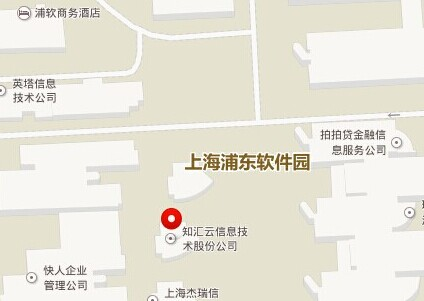
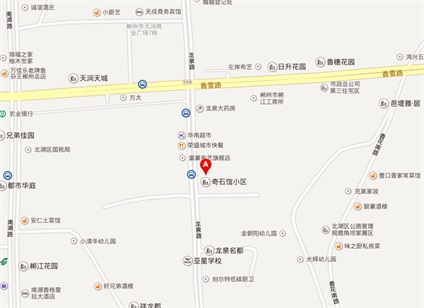
update the information of this website.satisfy to chenzhou company

diff --git a/tpl/Home/tpl04/Index_solution.html b/tpl/Home/tpl04/Index_solution.html
@@ -1,1 +1,1 @@
-<!DOCTYPE html><!--[if lt IE 7]>      <html class="no-js lt-ie9 lt-ie8 lt-ie7"> <![endif]--><!--[if IE 7]>         <html class="no-js lt-ie9 lt-ie8"> <![endif]--><!--[if IE 8]>         <html class="no-js lt-ie9"> <![endif]--><!--[if IE 9]>         <html class="no-js lt-ie10"> <![endif]--><!--[if IE 10]>         <html class="no-js ie10"> <![endif]--><head>    <meta charset="utf-8">  <meta http-equiv="X-UA-Compatible" content="IE=edge,chrome=1">        <title>经典案例_解决方案_微最强TMVlianyun_微信营销推广行业领导品牌</title>  <meta name="keywords"  content="微信营销解决方案、微信推广解决方案、微信营销行业方案"/>  <meta name="description"  content="微最强TM（Vlianyun），是微信营销行业领导品牌，立足客户个性化需求，为品牌企业占领微信营销高地，专注于提供微信营销、微信推广、微信运营等解决方案，助力企业微营销。"/>    <meta name="viewport" content="width=device-width, initial-scale=1">    <link rel="stylesheet" href="{noercms::RES}/css/normalize.css">    <link rel="stylesheet" href="{noercms::RES}/css/main.css">    <link rel="stylesheet" href="{noercms::RES}/css/anythingslider.css">    <script src="{noercms::RES}/js/com-9ac93d2c51d68fe2ff212cbd6355f2f6.js" type="text/javascript"></script>    <script src="{noercms::RES}/js/modernizr-2.6.2.min.js"></script></head><body data-spy="scroll" data-target="#page-index"  id="index-0">    <!--[if lt IE 7]>        <p class="browsehappy">You are using an <strong>outdated</strong> browser. Please <a href="http://browsehappy.com/">upgrade your browser</a> to improve your experience.</p>    <![endif]--><div class="html">    <div class="header">	<div class="wrap">		<div class="logo">			<a href="/"></a>		</div>		<div class="header-nav">			<ul>				<li>					<a href="/">首页</a>				</li>				<li>					<a href="{noercms::U('Home/Index/solution')}" class="active">经典案例</a>				</li>				<li>					<a href="{noercms::U('Home/Index/navigation')}" class="">功能导航</a>				</li>				<li>					<a href="{noercms::U('Home/Index/spread')}" class="">渠道代理</a>				</li>								<li>					<a href="{noercms::U('Home/Index/about')}" class="">关于我们</a>				</li>			</ul>		</div>		<div class="header-btns">		<if condition="$_SESSION[uid]==false">		<a href="{noercms::U('Home/Index/login')}" class="btn btn-text">登录</a>		<a href="{noercms::U('Home/Index/reg')}" class="btn btn-green">注册试用</a>		<else/>		<a href="{noercms::U('User/Index/index')}" class="btn btn-green">{noercms:$Think.session.uname}</a>		<a href="/#" class="btn btn-green" onClick="Javascript:window.open('{noercms::U('System/Admin/logout')}','_blank')" >退出</a>		</if>		</div>	</div></div>    <div class="body">  <div class="clearfix article">    <div class="article-top">      <div class="wrap">        <div class="edit-box">          <h4>订座、点餐节约时间，有效提高客流量</h4>          <small>              菜单管理                <span>|</span>              餐桌管理                <span>|</span>              订座管理                <span>|</span>              门店管理                <span>|</span>              微餐饮                <span>|</span>              预约管理           </small>          <p class="text-center">            <a class="btn btn-green btn-big" href="{noercms::U('Home/Index/reg')}">免费体验</a>          </p>        </div>      </div>    </div>    <div class="clearfix bg-gray bg-shadow">      <div class="wrap">        <ul class="clearfix list-case">          <li>            <a>              <span><img src="{noercms::RES}/images/E5B7B4E9A1BFE781ABE994851.jpg"></span>              <small>巴顿火锅</small>              <div class="case-hover" panel_id=0>                <b>扫一扫</b>                <span>									<img src="{noercms::RES}/images/E5B7B4E9A1BFE781ABE99485.jpg" alt="" width="106px" height="106px">                </span>                <i class="case-btn">更多详情</i>              </div>            </a>          </li>          <li>            <a>              <span><img src="{noercms::RES}/images/E4BA91E69993E783A7E783A4.jpg"></span>              <small>云晓烧烤</small>              <div class="case-hover" panel_id=1>                <b>扫一扫</b>                <span>									<img src="{noercms::RES}/images/E4BA91E69993E783A7E783A42.jpg" alt="" width="106px" height="106px">                </span>                <i class="case-btn">更多详情</i>              </div>            </a>          </li>          <li>            <a>              <span><img src="{noercms::RES}/images/E4BB8AE992B0E782B9E5BF831.jpg"></span>              <small>今钰点心</small>              <div class="case-hover" panel_id=2>                <b>扫一扫</b>                <span>									<img src="{noercms::RES}/images/E4BB8AE992B0E782B9E5BF83.jpg" alt="" width="106px" height="106px">                </span>                <i class="case-btn">更多详情</i>              </div>            </a>          </li>          <li>            <a>              <span><img src="{noercms::RES}/images/E5A4A7E89AA8E88081E6B1A4E781ABE99485E99DA2E9A6862.jpg"></span>              <small>大蚨老汤火锅</small>              <div class="case-hover" panel_id=3>                <b>扫一扫</b>                <span>									<img src="{noercms::RES}/images/E5A4A7E89AA8E88081E6B1A4E781ABE99485E99DA2E9A686.jpg" alt="" width="106px" height="106px">                </span>                <i class="case-btn">更多详情</i>              </div>            </a>          </li>          <li>            <a>              <span><img src="{noercms::RES}/images/E6B38AE7BFA0E9A490E9A5AE1.jpg"></span>              <small>泊翠餐饮</small>              <div class="case-hover" panel_id=4>                <b>扫一扫</b>                <span>									<img src="{noercms::RES}/images/E6B38AE7BFA0E9A490E9A5AE.jpg" alt="" width="106px" height="106px">                </span>                <i class="case-btn">更多详情</i>              </div>            </a>          </li>          <li>            <a>              <span><img src="{noercms::RES}/images/E78E89E886B3E688BFE6B8AFE7B2A4E7BE8EE9A39F3.jpg"></span>              <small>玉膳房港粤美食</small>              <div class="case-hover" panel_id=5>                <b>扫一扫</b>                <span>									<img src="{noercms::RES}/images/E78E89E886B3E688BFE6B8AFE7B2A4E7BE8EE9A39F.jpg" alt="" width="106px" height="106px">                </span>                <i class="case-btn">更多详情</i>              </div>            </a>          </li>        </ul>      </div>    </div>  </div>        </script><!--[if !IE]>底部<![endif]--><include file="Public:footer"/><!--[if !IE]>底部<![endif]-->  </div>  </div>    <div class="modal fade" id="modalCase">    <div class="modal-dialog">      <div class="modal-content">        <div class="modal-body">          <a class="modal-close"></a>          <ul id="slider-case" class="slider">            <li>              <h4>巴顿火锅</h4>                <p></p>                  <div class="slider-case-box">                    <div class="slider-case-td">                      <img src="{noercms::RES}/images/E5B7B4E9A1BFE781ABE994851.jpg">                      .                            </div>                    <div class="slider-case-td">                      <img src="{noercms::RES}/images/E5B7B4E9A1BFE781ABE994852.jpg">                      .                            </div>                    <div class="slider-case-td">                      <img src="{noercms::RES}/images/E5B7B4E9A1BFE781ABE99485.jpg" width="180">                      <span>扫描二维码即可查看详情</span>                      .                            </div>                  </div>                </li>            <li>              <h4>云晓烧烤</h4>                <p></p>                  <div class="slider-case-box">                    <div class="slider-case-td">                      <img src="{noercms::RES}/images/E4BA91E69993E783A7E783A4.jpg">                      .                            </div>                    <div class="slider-case-td">                      <img src="{noercms::RES}/images/E4BA91E69993E783A7E783A41.jpg">                      .                            </div>                    <div class="slider-case-td">                      <img src="{noercms::RES}/images/E4BA91E69993E783A7E783A42.jpg" width="180">                      <span>扫描二维码即可查看详情</span>                      .                            </div>                  </div>                </li>            <li>              <h4>今钰点心</h4>                <p></p>                  <div class="slider-case-box">                    <div class="slider-case-td">                      <img src="{noercms::RES}/images/E4BB8AE992B0E782B9E5BF831.jpg">                      .                            </div>                    <div class="slider-case-td">                      <img src="{noercms::RES}/images/E4BB8AE992B0E782B9E5BF832.jpg">                      .                            </div>                    <div class="slider-case-td">                      <img src="{noercms::RES}/images/E4BB8AE992B0E782B9E5BF83.jpg" width="180">                      <span>扫描二维码即可查看详情</span>                      .                            </div>                  </div>                </li>            <li>              <h4>大蚨老汤火锅</h4>                <p></p>                  <div class="slider-case-box">                    <div class="slider-case-td">                      <img src="{noercms::RES}/images/E5A4A7E89AA8E88081E6B1A4E781ABE99485E99DA2E9A6862.jpg">                      .                            </div>                    <div class="slider-case-td">                      <img src="{noercms::RES}/images/E5A4A7E89AA8E88081E6B1A4E781ABE99485E99DA2E9A6863.jpg">                      .                            </div>                    <div class="slider-case-td">                      <img src="{noercms::RES}/images/E5A4A7E89AA8E88081E6B1A4E781ABE99485E99DA2E9A686.jpg" width="180">                      <span>扫描二维码即可查看详情</span>                      .                            </div>                  </div>                </li>            <li>              <h4>泊翠餐饮</h4>                <p></p>                  <div class="slider-case-box">                    <div class="slider-case-td">                      <img src="{noercms::RES}/images/E6B38AE7BFA0E9A490E9A5AE1.jpg">                      .                            </div>                    <div class="slider-case-td">                      <img src="{noercms::RES}/images/E6B38AE7BFA0E9A490E9A5AE2.jpg">                      .                            </div>                    <div class="slider-case-td">                      <img src="{noercms::RES}/images/E6B38AE7BFA0E9A490E9A5AE.jpg" width="180">                      <span>扫描二维码即可查看详情</span>                      .                            </div>                  </div>                </li>            <li>              <h4>玉膳房港粤美食</h4>                <p></p>                  <div class="slider-case-box">                    <div class="slider-case-td">                      <img src="{noercms::RES}/images/E78E89E886B3E688BFE6B8AFE7B2A4E7BE8EE9A39F3.jpg">                      .                            </div>                    <div class="slider-case-td">                      <img src="{noercms::RES}/images/E78E89E886B3E688BFE6B8AFE7B2A4E7BE8EE9A39F2.jpg">                      .                            </div>                    <div class="slider-case-td">                      <img src="{noercms::RES}/images/E78E89E886B3E688BFE6B8AFE7B2A4E7BE8EE9A39F.jpg" width="180">                      <span>扫描二维码即可查看详情</span>                      .                            </div>                  </div>                </li>          </ul>        </div>      </div>    </div>  </div></body></html>
+<!DOCTYPE html><!--[if lt IE 7]>      <html class="no-js lt-ie9 lt-ie8 lt-ie7"> <![endif]--><!--[if IE 7]>         <html class="no-js lt-ie9 lt-ie8"> <![endif]--><!--[if IE 8]>         <html class="no-js lt-ie9"> <![endif]--><!--[if IE 9]>         <html class="no-js lt-ie10"> <![endif]--><!--[if IE 10]>         <html class="no-js ie10"> <![endif]--><head>    <meta charset="utf-8">  <meta http-equiv="X-UA-Compatible" content="IE=edge,chrome=1">        <title>经典案例_解决方案_微最强TMVlianyun_微信营销推广行业领导品牌</title>  <meta name="keywords"  content="微信营销解决方案、微信推广解决方案、微信营销行业方案"/>  <meta name="description"  content="微最强TM（Vlianyun），是微信营销行业领导品牌，立足客户个性化需求，为品牌企业占领微信营销高地，专注于提供微信营销、微信推广、微信运营等解决方案，助力企业微营销。"/>    <meta name="viewport" content="width=device-width, initial-scale=1">    <link rel="stylesheet" href="{noercms::RES}/css/normalize.css">    <link rel="stylesheet" href="{noercms::RES}/css/main.css">    <link rel="stylesheet" href="{noercms::RES}/css/anythingslider.css">    <script src="{noercms::RES}/js/com-9ac93d2c51d68fe2ff212cbd6355f2f6.js" type="text/javascript"></script>    <script src="{noercms::RES}/js/modernizr-2.6.2.min.js"></script></head><body data-spy="scroll" data-target="#page-index"  id="index-0">    <!--[if lt IE 7]>        <p class="browsehappy">You are using an <strong>outdated</strong> browser. Please <a href="http://browsehappy.com/">upgrade your browser</a> to improve your experience.</p>    <![endif]--><div class="html">    <div class="header">	<div class="wrap">		<div class="logo">			<a href="/"></a>		</div>		<div class="header-nav">			<ul>				<li>					<a href="/">首页</a>				</li>				<li>					<a href="{noercms::U('Home/Index/solution')}" class="active">经典案例</a>				</li>				<li>					<a href="{noercms::U('Home/Index/navigation')}" class="">功能导航</a>				</li>								<li>					<a href="{noercms::U('Home/Index/about')}" class="">关于我们</a>				</li>			</ul>		</div>		<div class="header-btns">		<if condition="$_SESSION[uid]==false">		<a href="{noercms::U('Home/Index/login')}" class="btn btn-text">登录</a>		<a href="{noercms::U('Home/Index/reg')}" class="btn btn-green">注册试用</a>		<else/>		<a href="{noercms::U('User/Index/index')}" class="btn btn-green">{noercms:$Think.session.uname}</a>		<a href="/#" class="btn btn-green" onClick="Javascript:window.open('{noercms::U('System/Admin/logout')}','_blank')" >退出</a>		</if>		</div>	</div></div>    <div class="body">  <div class="clearfix article">    <div class="article-top">      <div class="wrap">        <div class="edit-box">          <h4>订座、点餐节约时间，有效提高客流量</h4>          <small>              菜单管理                <span>|</span>              餐桌管理                <span>|</span>              订座管理                <span>|</span>              门店管理                <span>|</span>              微餐饮                <span>|</span>              预约管理           </small>          <p class="text-center">            <a class="btn btn-green btn-big" href="{noercms::U('Home/Index/reg')}">免费体验</a>          </p>        </div>      </div>    </div>    <div class="clearfix bg-gray bg-shadow">      <div class="wrap">        <ul class="clearfix list-case">          <li>            <a>              <span><img src="{noercms::RES}/images/E5B7B4E9A1BFE781ABE994851.jpg"></span>              <small>巴顿火锅</small>              <div class="case-hover" panel_id=0>                <b>扫一扫</b>                <span>									<img src="{noercms::RES}/images/E5B7B4E9A1BFE781ABE99485.jpg" alt="" width="106px" height="106px">                </span>                <i class="case-btn">更多详情</i>              </div>            </a>          </li>          <li>            <a>              <span><img src="{noercms::RES}/images/E4BA91E69993E783A7E783A4.jpg"></span>              <small>云晓烧烤</small>              <div class="case-hover" panel_id=1>                <b>扫一扫</b>                <span>									<img src="{noercms::RES}/images/E4BA91E69993E783A7E783A42.jpg" alt="" width="106px" height="106px">                </span>                <i class="case-btn">更多详情</i>              </div>            </a>          </li>          <li>            <a>              <span><img src="{noercms::RES}/images/E4BB8AE992B0E782B9E5BF831.jpg"></span>              <small>今钰点心</small>              <div class="case-hover" panel_id=2>                <b>扫一扫</b>                <span>									<img src="{noercms::RES}/images/E4BB8AE992B0E782B9E5BF83.jpg" alt="" width="106px" height="106px">                </span>                <i class="case-btn">更多详情</i>              </div>            </a>          </li>          <li>            <a>              <span><img src="{noercms::RES}/images/E5A4A7E89AA8E88081E6B1A4E781ABE99485E99DA2E9A6862.jpg"></span>              <small>大蚨老汤火锅</small>              <div class="case-hover" panel_id=3>                <b>扫一扫</b>                <span>									<img src="{noercms::RES}/images/E5A4A7E89AA8E88081E6B1A4E781ABE99485E99DA2E9A686.jpg" alt="" width="106px" height="106px">                </span>                <i class="case-btn">更多详情</i>              </div>            </a>          </li>          <li>            <a>              <span><img src="{noercms::RES}/images/E6B38AE7BFA0E9A490E9A5AE1.jpg"></span>              <small>泊翠餐饮</small>              <div class="case-hover" panel_id=4>                <b>扫一扫</b>                <span>									<img src="{noercms::RES}/images/E6B38AE7BFA0E9A490E9A5AE.jpg" alt="" width="106px" height="106px">                </span>                <i class="case-btn">更多详情</i>              </div>            </a>          </li>          <li>            <a>              <span><img src="{noercms::RES}/images/E78E89E886B3E688BFE6B8AFE7B2A4E7BE8EE9A39F3.jpg"></span>              <small>玉膳房港粤美食</small>              <div class="case-hover" panel_id=5>                <b>扫一扫</b>                <span>									<img src="{noercms::RES}/images/E78E89E886B3E688BFE6B8AFE7B2A4E7BE8EE9A39F.jpg" alt="" width="106px" height="106px">                </span>                <i class="case-btn">更多详情</i>              </div>            </a>          </li>        </ul>      </div>    </div>  </div>        </script><!--[if !IE]>底部<![endif]--><include file="Public:footer"/><!--[if !IE]>底部<![endif]-->  </div>  </div>    <div class="modal fade" id="modalCase">    <div class="modal-dialog">      <div class="modal-content">        <div class="modal-body">          <a class="modal-close"></a>          <ul id="slider-case" class="slider">            <li>              <h4>巴顿火锅</h4>                <p></p>                  <div class="slider-case-box">                    <div class="slider-case-td">                      <img src="{noercms::RES}/images/E5B7B4E9A1BFE781ABE994851.jpg">                      .                            </div>                    <div class="slider-case-td">                      <img src="{noercms::RES}/images/E5B7B4E9A1BFE781ABE994852.jpg">                      .                            </div>                    <div class="slider-case-td">                      <img src="{noercms::RES}/images/E5B7B4E9A1BFE781ABE99485.jpg" width="180">                      <span>扫描二维码即可查看详情</span>                      .                            </div>                  </div>                </li>            <li>              <h4>云晓烧烤</h4>                <p></p>                  <div class="slider-case-box">                    <div class="slider-case-td">                      <img src="{noercms::RES}/images/E4BA91E69993E783A7E783A4.jpg">                      .                            </div>                    <div class="slider-case-td">                      <img src="{noercms::RES}/images/E4BA91E69993E783A7E783A41.jpg">                      .                            </div>                    <div class="slider-case-td">                      <img src="{noercms::RES}/images/E4BA91E69993E783A7E783A42.jpg" width="180">                      <span>扫描二维码即可查看详情</span>                      .                            </div>                  </div>                </li>            <li>              <h4>今钰点心</h4>                <p></p>                  <div class="slider-case-box">                    <div class="slider-case-td">                      <img src="{noercms::RES}/images/E4BB8AE992B0E782B9E5BF831.jpg">                      .                            </div>                    <div class="slider-case-td">                      <img src="{noercms::RES}/images/E4BB8AE992B0E782B9E5BF832.jpg">                      .                            </div>                    <div class="slider-case-td">                      <img src="{noercms::RES}/images/E4BB8AE992B0E782B9E5BF83.jpg" width="180">                      <span>扫描二维码即可查看详情</span>                      .                            </div>                  </div>                </li>            <li>              <h4>大蚨老汤火锅</h4>                <p></p>                  <div class="slider-case-box">                    <div class="slider-case-td">                      <img src="{noercms::RES}/images/E5A4A7E89AA8E88081E6B1A4E781ABE99485E99DA2E9A6862.jpg">                      .                            </div>                    <div class="slider-case-td">                      <img src="{noercms::RES}/images/E5A4A7E89AA8E88081E6B1A4E781ABE99485E99DA2E9A6863.jpg">                      .                            </div>                    <div class="slider-case-td">                      <img src="{noercms::RES}/images/E5A4A7E89AA8E88081E6B1A4E781ABE99485E99DA2E9A686.jpg" width="180">                      <span>扫描二维码即可查看详情</span>                      .                            </div>                  </div>                </li>            <li>              <h4>泊翠餐饮</h4>                <p></p>                  <div class="slider-case-box">                    <div class="slider-case-td">                      <img src="{noercms::RES}/images/E6B38AE7BFA0E9A490E9A5AE1.jpg">                      .                            </div>                    <div class="slider-case-td">                      <img src="{noercms::RES}/images/E6B38AE7BFA0E9A490E9A5AE2.jpg">                      .                            </div>                    <div class="slider-case-td">                      <img src="{noercms::RES}/images/E6B38AE7BFA0E9A490E9A5AE.jpg" width="180">                      <span>扫描二维码即可查看详情</span>                      .                            </div>                  </div>                </li>            <li>              <h4>玉膳房港粤美食</h4>                <p></p>                  <div class="slider-case-box">                    <div class="slider-case-td">                      <img src="{noercms::RES}/images/E78E89E886B3E688BFE6B8AFE7B2A4E7BE8EE9A39F3.jpg">                      .                            </div>                    <div class="slider-case-td">                      <img src="{noercms::RES}/images/E78E89E886B3E688BFE6B8AFE7B2A4E7BE8EE9A39F2.jpg">                      .                            </div>                    <div class="slider-case-td">                      <img src="{noercms::RES}/images/E78E89E886B3E688BFE6B8AFE7B2A4E7BE8EE9A39F.jpg" width="180">                      <span>扫描二维码即可查看详情</span>                      .                            </div>                  </div>                </li>          </ul>        </div>      </div>    </div>  </div></body></html>

diff --git a/tpl/Home/tpl04/Index_about.html b/tpl/Home/tpl04/Index_about.html
@@ -2,4 +2,4 @@
 <![endif]--><!--[if IE 7]>         <html class="no-js lt-ie9 lt-ie8"> <![endif]--><!--[if IE 8]>         <html class="no-js lt-ie9"> 
 <![endif]--><!--[if IE 9]>         <html class="no-js lt-ie10"> <![endif]--><!--[if IE 10]>         <html class="no-js ie10"> 
 <![endif]--><head>    <meta charset="utf-8">  <meta http-equiv="X-UA-Compatible" content="IE=edge,chrome=1">        <title>关于我们_noercms微信营销推广行业领导品牌</title>  <meta name="keywords"  content="noercms、关于我们"/>  <meta name="description"  content="noercms（Vlianyun），是微信营销行业领导品牌，专注于提供微信营销、微信推广、微信运营等解决方案，助力企业微营销。"/>    <meta name="viewport" content="width=device-width, initial-scale=1">    <link rel="stylesheet" href="{noercms::RES}/css/normalize.css">    <link rel="stylesheet" href="{noercms::RES}/css/main.css">    <link rel="stylesheet" href="{noercms::RES}/css/anythingslider.css">    <script src="{noercms::RES}/js/com-9ac93d2c51d68fe2ff212cbd6355f2f6.js" type="text/javascript"></script>    <script src="{noercms::RES}/js/modernizr-2.6.2.min.js"></script></head><body data-spy="scroll" data-target="#page-index"  id="index-0">    <!--[if lt IE 7]>        <p class="browsehappy">You are using an <strong>outdated</strong> browser. Please <a href="http://browsehappy.com/">upgrade your browser</a> to improve your experience.</p>    
-<![endif]--><div class="html">    <div class="header">	<div class="wrap">		<div class="logo">			<a href="/"></a>		</div>		<div class="header-nav">			<ul>				<li>					<a href="/">首页</a>				</li>				<li>					<a href="{noercms::U('Home/Index/solution')}" class="">经典案例</a>				</li>				<li>					<a href="{noercms::U('Home/Index/navigation')}" class="">功能导航</a>				</li>				<li>					<a href="{noercms::U('Home/Index/spread')}" class="">渠道代理</a>				</li>								<li>					<a href="{noercms::U('Home/Index/about')}" class="active">关于我们</a>				</li>			</ul>		</div>			<div class="header-btns">		<if condition="$_SESSION[uid]==false">		<a href="{noercms::U('Home/Index/login')}" class="btn btn-text">登录</a>		<a href="{noercms::U('Home/Index/reg')}" class="btn btn-green">注册试用</a>		<else/>		<a href="{noercms::U('User/Index/index')}" class="btn btn-green">{noercms:$Think.session.uname}</a>		<a href="/#" class="btn btn-green" onClick="Javascript:window.open('{noercms::U('System/Admin/logout')}','_blank')" >退出</a>		</if>		</div>	</div></div>    <div class="body">  <div class="flash h226" style="background: url({noercms::RES}/images/img/ad-about.jpg) no-repeat center 0 #fcfcfc;">    <div class="wrap relative">      <div class="mod-list">        <a class="active" href="{noercms::U('Home/Index/about')}">关于我们</a>        <a href="{noercms::U('Home/Index/contact')}">联系我们</a>      </div>      <div class="ad-about">        <p>梦达天下 因为由你</p>        <small>社会化媒体时代商业新模式，O2O聚财新体验</small>      </div>    </div>  </div>  <div class="breadcrumb">    <div class="wrap"><b>当前位置：</b>关于我们</div>  </div>  <div class="clearfix article">    <div class="wrap">      <h3 class="article-title">公司简介</h3>      <div class="edit-main">        <h2>noercms——中国微营销行业解决方案领导品牌</h2>        <p>noercms是国内首款最完备的微信营销行业解决方案，依托微信公众平台，为企业重新定义微信公众账号，解决企业线上线下（O2O）互动、口碑营销难题。目前深入挖掘的行业有餐饮、电商、医疗、旅游、汽车、房产、婚庆、影楼、牙医、教育、建材等行业解决方案。</p>        <p>noercms，作为行业微营销解决方案，可帮助企业面向微信用户，建设自己的微信官网、派发微信会员卡特权服务、在线领取分享优惠券、以及发布抽奖、刮奖等趣味互动营销服务。也可通过微信实现CRM客户管理功能，设置智能机器人回答客户咨询，有效对企业客户进行分组管理，精准推送信息，noercms是通过老客户的口碑带动新客户消费，为企业培养核心用户、增加粘性、改善服务体验、反复消费的微信营销整合平台。</p>        <p>noercms名称：Vlianyun，其涵义为Victory Lian Xi，成功的帮助企业在线上线下维护客户。微客，是指移动互联网时代微应用的使用者，如微博、微信、特别是微信用户中的个人用户。noercms采用达因微营销模型——社会化媒体消费行为分析模型（BPICAS），深入挖掘消费者吃喝玩乐微生活需求，旨在帮助企业开源节流、抓住用户，提升品牌服务，引领营销领域新的革命。</p>        <h2>研发背景</h2>        <p>微营销服务商——达因传媒与中国微营销品牌研究中心经过研究在国内首次提出了社会化媒体新生态对应的消费轨迹与行为模型-- BPICAS达因模型，即创建形象（Build）—定位（Positioning）—兴趣（Interest）—沟通互动服务（Connect&amp; Engage）—行动（Action）— 分享（Share） ，实现品牌口碑快速传播。并以达因传播模型为依据推出了微信营销行业解决方案——微最强TM，为企业打造低成本高效的微营销品牌之路</p>        <h2>微最强TM研发中心 </h2>        <p>杭州微最强TM软件技术有限公司，作为以技术、研发为主的上海市高科技软件企业，聚集一批高精尖的网络技术精英，致力于社会化网络行为智能匹配方法与系统SNBIMMS的研究与开发，并依此为基础开发微信营销行业解决方案，目前主要从事微最强TM系列产品与服务的研发项目。</p>        <h2>微最强TM营销中心</h2>        <p>达因传媒，是国内领先的创新型微营销解决方案服务商。noercms为达因传媒旗下品牌。达因广告传媒（上海）有限公司（Dyne advertising media (shanghai) co.,Ltd），简称“达因传媒”。“达因”一词来自物理学中最小的力学单位Dyne，100000dyn=1N（牛顿），寓意激活并凝聚微小的力量成就最大的品牌影响力。</p>        <h2>中国微营销品牌研究中心</h2>        <p>中国微营销品牌研究中心，自成立以来，一直致力于社会化媒体和微营销前沿研究和应用性开发和服务，开展企业公益培训项目，推进微营销领域的创新，打造品牌中国梦。</p>      </div>    </div>  </div></div>        <!--[if !IE]>底部<![endif]--><include file="Public:footer"/><!--[if !IE]>底部<![endif]--></div></body></html>
+<![endif]--><div class="html">    <div class="header">	<div class="wrap">		<div class="logo">			<a href="/"></a>		</div>		<div class="header-nav">			<ul>				<li>					<a href="/">首页</a>				</li>				<li>					<a href="{noercms::U('Home/Index/solution')}" class="">经典案例</a>				</li>				<li>					<a href="{noercms::U('Home/Index/navigation')}" class="">功能导航</a>				</li>								<li>					<a href="{noercms::U('Home/Index/about')}" class="active">关于我们</a>				</li>			</ul>		</div>			<div class="header-btns">		<if condition="$_SESSION[uid]==false">		<a href="{noercms::U('Home/Index/login')}" class="btn btn-text">登录</a>		<a href="{noercms::U('Home/Index/reg')}" class="btn btn-green">注册试用</a>		<else/>		<a href="{noercms::U('User/Index/index')}" class="btn btn-green">{noercms:$Think.session.uname}</a>		<a href="/#" class="btn btn-green" onClick="Javascript:window.open('{noercms::U('System/Admin/logout')}','_blank')" >退出</a>		</if>		</div>	</div></div>    <div class="body">  <div class="flash h226" style="background: url({noercms::RES}/images/img/ad-about.jpg) no-repeat center 0 #fcfcfc;">    <div class="wrap relative">      <div class="mod-list">        <a class="active" href="{noercms::U('Home/Index/about')}">关于我们</a>        <a href="{noercms::U('Home/Index/contact')}">联系我们</a>      </div>      <div class="ad-about">        <p>顾客至上  合作创新</p>        <small>社会化媒体时代商业新模式，O2O聚财新体验</small>      </div>    </div>  </div>  <div class="breadcrumb">    <div class="wrap"><b>当前位置：</b>关于我们</div>  </div>  <div class="clearfix article">    <div class="wrap">      <h3 class="article-title">公司简介</h3>      <div class="edit-main">        <h2>微盟合创微信平台——湖南微营销行业解决方案领导品牌</h2>        <p>微盟合创微信平台是一款最完备的微信营销行业解决方案，依托微信公众平台，为企业重新定义微信公众账号，解决企业线上线下（O2O）互动、口碑营销难题。目前深入挖掘的行业有餐饮、电商、医疗、旅游、汽车、房产、婚庆、影楼、牙医、教育、建材等行业解决方案。</p>        <p>微盟合创微信平台，作为行业微营销解决方案，可帮助企业面向微信用户，建设自己的微信官网、派发微信会员卡特权服务、在线领取分享优惠券、以及发布抽奖、刮奖等趣味互动营销服务。也可通过微信实现CRM客户管理功能，设置智能机器人回答客户咨询，有效对企业客户进行分组管理，精准推送信息，微盟合创微信平台是通过老客户的口碑带动新客户消费，为企业培养核心用户、增加粘性、改善服务体验、反复消费的微信营销整合平台。</p>        <p>微客，是指移动互联网时代微应用的使用者，如微博、微信、特别是微信用户中的个人用户。微盟合创微信平台采用达因微营销模型——社会化媒体消费行为分析模型（BPICAS），深入挖掘消费者吃喝玩乐微生活需求，旨在帮助企业开源节流、抓住用户，提升品牌服务，引领营销领域新的革命。</p>        <h2>微盟合创</h2>        <p>湖南微盟合创文化传播有限公司是华南地区知名的文化传播机构，为众多企业及政府机构提供高水准的公关活动平台。微盟合创文化传播有限责任公司是一家集企业文化建设、商业整合营销推广、演艺活动制作、品牌策划推广、网络户外电视平面广告制作及发布、主题公关活动策划 、高端商务论坛策划、 产品会务展览策划及展示设计 、产品新闻发布会举办等于一体的专业文化传播机构。</p>       <p>微盟合创一直秉持“精心策划、致力执行”的工作理念，凭借良好的资源背景，经验丰富的人才和专业化的服务，强大的合作媒体支持，我们已经在业界享有盛誉。微盟合创曾先后企划、监制及执行多项大型的市场推广、商业促销及企业庆典活动，客户覆盖IT、金融、房地产、消费品、旅游推广等商业企业及政府机构，成功实施各类活动数百场。微盟传播--锲而不舍、继往开来，为客户量身订造适合大众并提升企业理念的文化演绎！微盟传播--期待与您携手并肩，共创辉煌与美好的文化演绎</p>        <h2>我们的宗旨</h2>        <p>站在策略的高度，提供专业的公关运做和卓越的执行服务，与客户共同体验成功。 </p>  	<h2>核心业务</h2>        <p>新媒体及网络推广、政务宣传（政务微博微信平台搭建与运营、各级网络媒体及平面媒体、电视媒体）媒体传播、商业整合营销推广、舆情监测、品牌策划推广、活动－会议－展览策划、执行。 </p> 	<h2>我们的优势</h2>        <p>强大的社会和媒体资源、专业的策划和执行团队、完善的服务流程 </p>          <h2>我们的理念</h2>        <p>顾客至上，合作创新  		</p> </div>    </div>  </div></div>        <!--[if !IE]>底部<![endif]--><include file="Public:footer"/><!--[if !IE]>底部<![endif]--></div></body></html>

diff --git a/tpl/Home/tpl04/Index_navigation.html b/tpl/Home/tpl04/Index_navigation.html
@@ -1,1 +1,1 @@
-<!DOCTYPE html><!--[if lt IE 7]>      <html class="no-js lt-ie9 lt-ie8 lt-ie7"> <![endif]--><!--[if IE 7]>         <html class="no-js lt-ie9 lt-ie8"> <![endif]--><!--[if IE 8]>         <html class="no-js lt-ie9"> <![endif]--><!--[if IE 9]>         <html class="no-js lt-ie10"> <![endif]--><!--[if IE 10]>         <html class="no-js ie10"> <![endif]--><head>    <meta charset="utf-8">  <meta http-equiv="X-UA-Compatible" content="IE=edge,chrome=1">        <title>功能导航_微最强TMVlianyun_微信营销推广行业领导品牌</title>  <meta name="keywords"  content="微官网、微客服、微会员、微商圈、微电商、微营销、微支付、微推广"/>  <meta name="description"  content="全面的功能导航：微官网、微会员、微客服、微推广、微团购、微投票、微统计、微门店、微活动、微报名、微行业、微定制"/>    <meta name="viewport" content="width=device-width, initial-scale=1">    <link rel="stylesheet" href="{noercms::RES}/css/normalize.css">    <link rel="stylesheet" href="{noercms::RES}/css/main.css">    <link rel="stylesheet" href="{noercms::RES}/css/anythingslider.css">    <script src="{noercms::RES}/js/com-9ac93d2c51d68fe2ff212cbd6355f2f6.js" type="text/javascript"></script>    <script src="{noercms::RES}/js/modernizr-2.6.2.min.js"></script></head><body data-spy="scroll" data-target="#page-index"  id="index-0">    <!--[if lt IE 7]>        <p class="browsehappy">You are using an <strong>outdated</strong> browser. Please <a href="http://browsehappy.com/">upgrade your browser</a> to improve your experience.</p>    <![endif]--><div class="html">    <div class="header">	<div class="wrap">		<div class="logo">			<a href="/"></a>		</div>		<div class="header-nav">			<ul>				<li>					<a href="/">首页</a>				</li>				<li>					<a href="{noercms::U('Home/Index/solution')}" class="">经典案例</a>				</li>				<li>					<a href="{noercms::U('Home/Index/navigation')}" class="active">功能导航</a>				</li>				<li>					<a href="{noercms::U('Home/Index/spread')}" class="">渠道代理</a>				</li>								<li>					<a href="{noercms::U('Home/Index/about')}" class="">关于我们</a>				</li>			</ul>		</div>			<div class="header-btns">		<if condition="$_SESSION[uid]==false">		<a href="{noercms::U('Home/Index/login')}" class="btn btn-text">登录</a>		<a href="{noercms::U('Home/Index/reg')}" class="btn btn-green">注册试用</a>		<else/>		<a href="{noercms::U('User/Index/index')}" class="btn btn-green">{noercms:$Think.session.uname}</a>		<a href="/#" class="btn btn-green" onClick="Javascript:window.open('{noercms::U('System/Admin/logout')}','_blank')" >退出</a>		</if>		</div>	</div></div>    <div class="body">  <div class="clearfix article">    <div class="article-top">      <div class="wrap">        <div class="edit-box">          <h4>微官网——快速建立企业微信官网，全方位展现企业品牌</h4>          <small>5分钟快速搭建微网站，更多功能随意组合，选择更丰富，变换更随心； 作为业内首家网站流量分析的平台，通过在不同时段内针对PV、UV、IP、跳出率、访问时长等维度进行分析统计，方便快捷监控信息。</small>          <p class="text-center">            <a class="btn btn-green btn-big" href="{noercms::U('Home/Index/reg')}">免费体验</a>          </p>      </div>      </div>    </div>    <div class="clearfix bg-gray bg-shadow">      <div class="wrap text-center">        <img src="{noercms::RES}/images/website.png">      </div>    </div>  </div></div>     <!--[if !IE]>底部<![endif]--><include file="Public:footer"/><!--[if !IE]>底部<![endif]--></div></body></html>
+<!DOCTYPE html><!--[if lt IE 7]>      <html class="no-js lt-ie9 lt-ie8 lt-ie7"> <![endif]--><!--[if IE 7]>         <html class="no-js lt-ie9 lt-ie8"> <![endif]--><!--[if IE 8]>         <html class="no-js lt-ie9"> <![endif]--><!--[if IE 9]>         <html class="no-js lt-ie10"> <![endif]--><!--[if IE 10]>         <html class="no-js ie10"> <![endif]--><head>    <meta charset="utf-8">  <meta http-equiv="X-UA-Compatible" content="IE=edge,chrome=1">        <title>功能导航_微最强TMVlianyun_微信营销推广行业领导品牌</title>  <meta name="keywords"  content="微官网、微客服、微会员、微商圈、微电商、微营销、微支付、微推广"/>  <meta name="description"  content="全面的功能导航：微官网、微会员、微客服、微推广、微团购、微投票、微统计、微门店、微活动、微报名、微行业、微定制"/>    <meta name="viewport" content="width=device-width, initial-scale=1">    <link rel="stylesheet" href="{noercms::RES}/css/normalize.css">    <link rel="stylesheet" href="{noercms::RES}/css/main.css">    <link rel="stylesheet" href="{noercms::RES}/css/anythingslider.css">    <script src="{noercms::RES}/js/com-9ac93d2c51d68fe2ff212cbd6355f2f6.js" type="text/javascript"></script>    <script src="{noercms::RES}/js/modernizr-2.6.2.min.js"></script></head><body data-spy="scroll" data-target="#page-index"  id="index-0">    <!--[if lt IE 7]>        <p class="browsehappy">You are using an <strong>outdated</strong> browser. Please <a href="http://browsehappy.com/">upgrade your browser</a> to improve your experience.</p>    <![endif]--><div class="html">    <div class="header">	<div class="wrap">		<div class="logo">			<a href="/"></a>		</div>		<div class="header-nav">			<ul>				<li>					<a href="/">首页</a>				</li>				<li>					<a href="{noercms::U('Home/Index/solution')}" class="">经典案例</a>				</li>				<li>					<a href="{noercms::U('Home/Index/navigation')}" class="active">功能导航</a>				</li>								<li>					<a href="{noercms::U('Home/Index/about')}" class="">关于我们</a>				</li>			</ul>		</div>			<div class="header-btns">		<if condition="$_SESSION[uid]==false">		<a href="{noercms::U('Home/Index/login')}" class="btn btn-text">登录</a>		<a href="{noercms::U('Home/Index/reg')}" class="btn btn-green">注册试用</a>		<else/>		<a href="{noercms::U('User/Index/index')}" class="btn btn-green">{noercms:$Think.session.uname}</a>		<a href="/#" class="btn btn-green" onClick="Javascript:window.open('{noercms::U('System/Admin/logout')}','_blank')" >退出</a>		</if>		</div>	</div></div>    <div class="body">  <div class="clearfix article">    <div class="article-top">      <div class="wrap">        <div class="edit-box">          <h4>微官网——快速建立企业微信官网，全方位展现企业品牌</h4>          <small>5分钟快速搭建微网站，更多功能随意组合，选择更丰富，变换更随心； 作为业内首家网站流量分析的平台，通过在不同时段内针对PV、UV、IP、跳出率、访问时长等维度进行分析统计，方便快捷监控信息。</small>          <p class="text-center">            <a class="btn btn-green btn-big" href="{noercms::U('Home/Index/reg')}">免费体验</a>          </p>      </div>      </div>    </div>    <div class="clearfix bg-gray bg-shadow">      <div class="wrap text-center">        <img src="{noercms::RES}/images/website.png">      </div>    </div>  </div></div>     <!--[if !IE]>底部<![endif]--><include file="Public:footer"/><!--[if !IE]>底部<![endif]--></div></body></html>

diff --git a/tpl/Home/tpl04/Index_index.html b/tpl/Home/tpl04/Index_index.html
@@ -27,7 +27,6 @@
           <li> <a href="/" class="active">首页</a> </li>
           <li> <a href="{noercms::U('Home/Index/solution')}" class="">经典案例</a> </li>
           <li> <a href="{noercms::U('Home/Index/navigation')}" class="">功能导航</a> </li>
-          <li> <a href="{noercms::U('Home/Index/spread')}" class="">渠道代理</a> </li>
           <li> <a href="{noercms::U('Home/Index/about')}" class="">关于我们</a> </li>
         </ul>
       </div>
@@ -49,8 +48,8 @@
     <div class="note">
       <div class="slider-note wrap">
         <ul id="slider-note">
-          <li>noercms后台重磅升级！！全新的后台，全新的noercms！</li>
-          <li>noercms官方网站重磅升级！！全新的官网，全新的noercms！</a></li>
+          <li>微盟合创微信平台后台重磅升级！！全新的后台，全新的微盟合创微信平台！</li>
+          <li>微盟合创微信平台官方网站重磅升级！！全新的官网，全新的微盟合创微信平台！</a></li>
           <li>微社区全面升级，开放全账户类型体验</a></li>
         </ul>
       </div>
@@ -162,7 +161,7 @@
     </div>
     <div class="clearfix index index-2" id="index-2">
       <div class="wrap">
-        <h4>谁使用了noercms</h4>
+        <h4>谁使用了微信平台服务</h4>
         <small>超过<i>25682</i>品牌客户选择了，支持深度定制</small>
         <ul class="clearfix list-case">
           <li> <a> <span><img src="{noercms::RES}/images/E6BBA8E6B19FE59BBDE99985E5B9BFE59CBA2.jpg"></span> <small>滨江国际广场</small>

diff --git a/tpl/Home/tpl04/Index_contact.html b/tpl/Home/tpl04/Index_contact.html
@@ -41,13 +41,7 @@
 				<li>
 					<a href="{noercms::U('Home/Index/navigation')}" class="">功能导航</a>
 				</li>
-				<li>
-					<a href="{noercms::U('Home/Index/spread')}" class="">渠道代理</a>
-				</li>
-				<li>
-					<a href="http://%62%62%73%2E%67%6F%70%65%2E%63%6E" class="">购买程序
-</a>
-				</li>
+
 				<li>
 					<a href="{noercms::U('Home/Index/about')}" class="active">关于我们</a>
 				</li>
@@ -88,7 +82,7 @@
       <div class="contactus">
         <div class="edit-main clearfix">
           <div class="part-2">
-            <a href="http://map.baidu.com/?newmap=1&amp;ie=utf-8&amp;s=s%26wd%3D%E4%B8%8A%E6%B5%B7%E6%B5%A6%E4%B8%9C%E6%96%B0%E5%8C%BA%E9%83%AD%E5%AE%88%E6%95%AC%E8%B7%AF498%E5%BC%84%E6%B5%A6%E4%B8%9C%E8%BD%AF%E4%BB%B6%E5%9B%AD22%E5%8F%B73%E6%A5%BC" target="_blank" title="点击查询地图">
+            <a href="http://map.baidu.com/?shareurl=1&poiShareUid=73946a6179e0b640e1110350" target="_blank" title="点击查询地图">
               <img src="{noercms::RES}/images/map.jpg">
             </a>
           </div>
@@ -98,7 +92,7 @@
               电话：{noercms::C('phone')} <br>
               邮箱：{noercms::C('site_email')} <br>
               网址：{noercms::C('site_url')} <br>
-              地址：上海市浦东新区张江软件园
+              地址：湖南省郴州市北湖区龙泉路奇石馆小区2栋2单元09B6室
             </p>
           </div>
         </div>

diff --git a/tpl/Home/tpl04/Public_footer.html b/tpl/Home/tpl04/Public_footer.html
@@ -6,11 +6,9 @@
 
 			<dl class="list-arrow-square">
 
-				<dt>关于noercms</dt>
+				<dt>关于微盟合创</dt>
 
 				<dd><a href="{noercms::U('Home/Index/contact')}">联系方式</a></dd>
-
-				<dd><a href="{noercms::U('Home/Index/spread')}">渠道代理</a></dd>
 
 				<dd><a href="{noercms::U('Home/Index/about')}">关于我们</a></dd>
 
